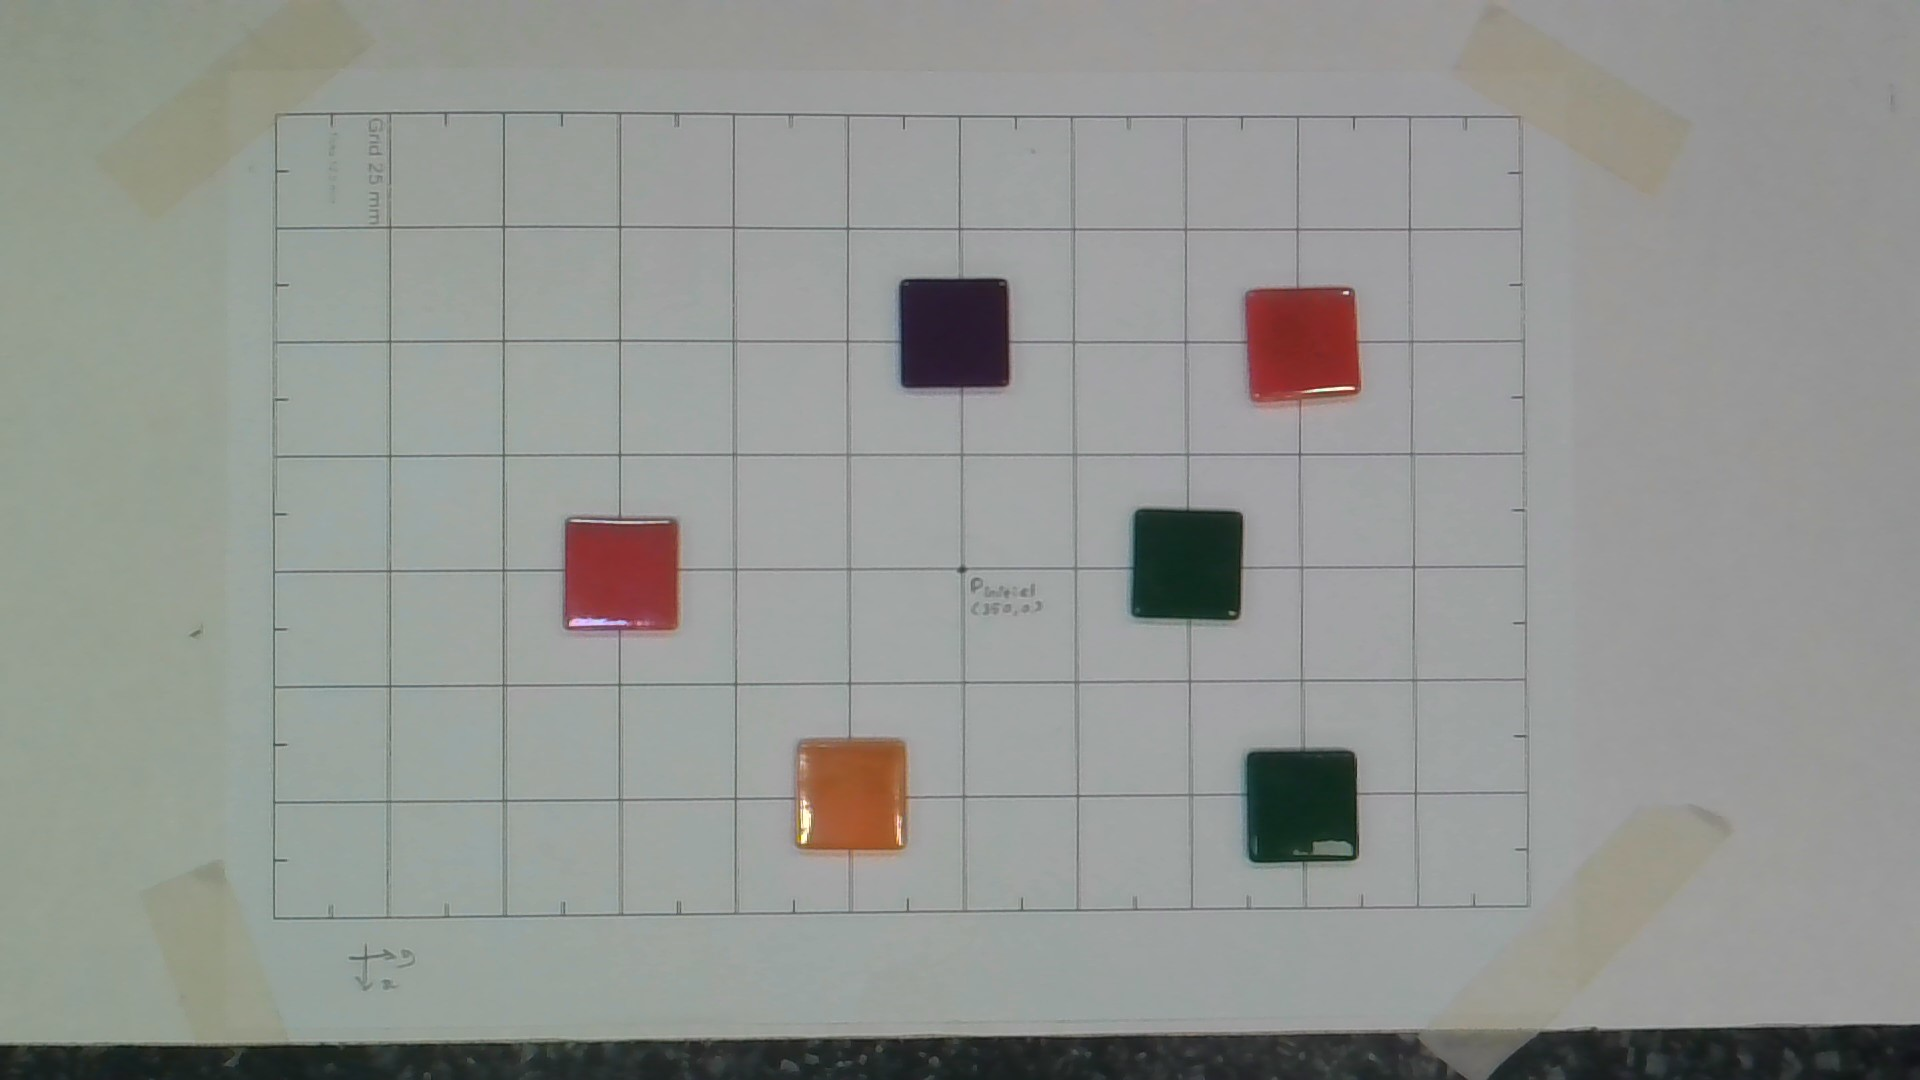
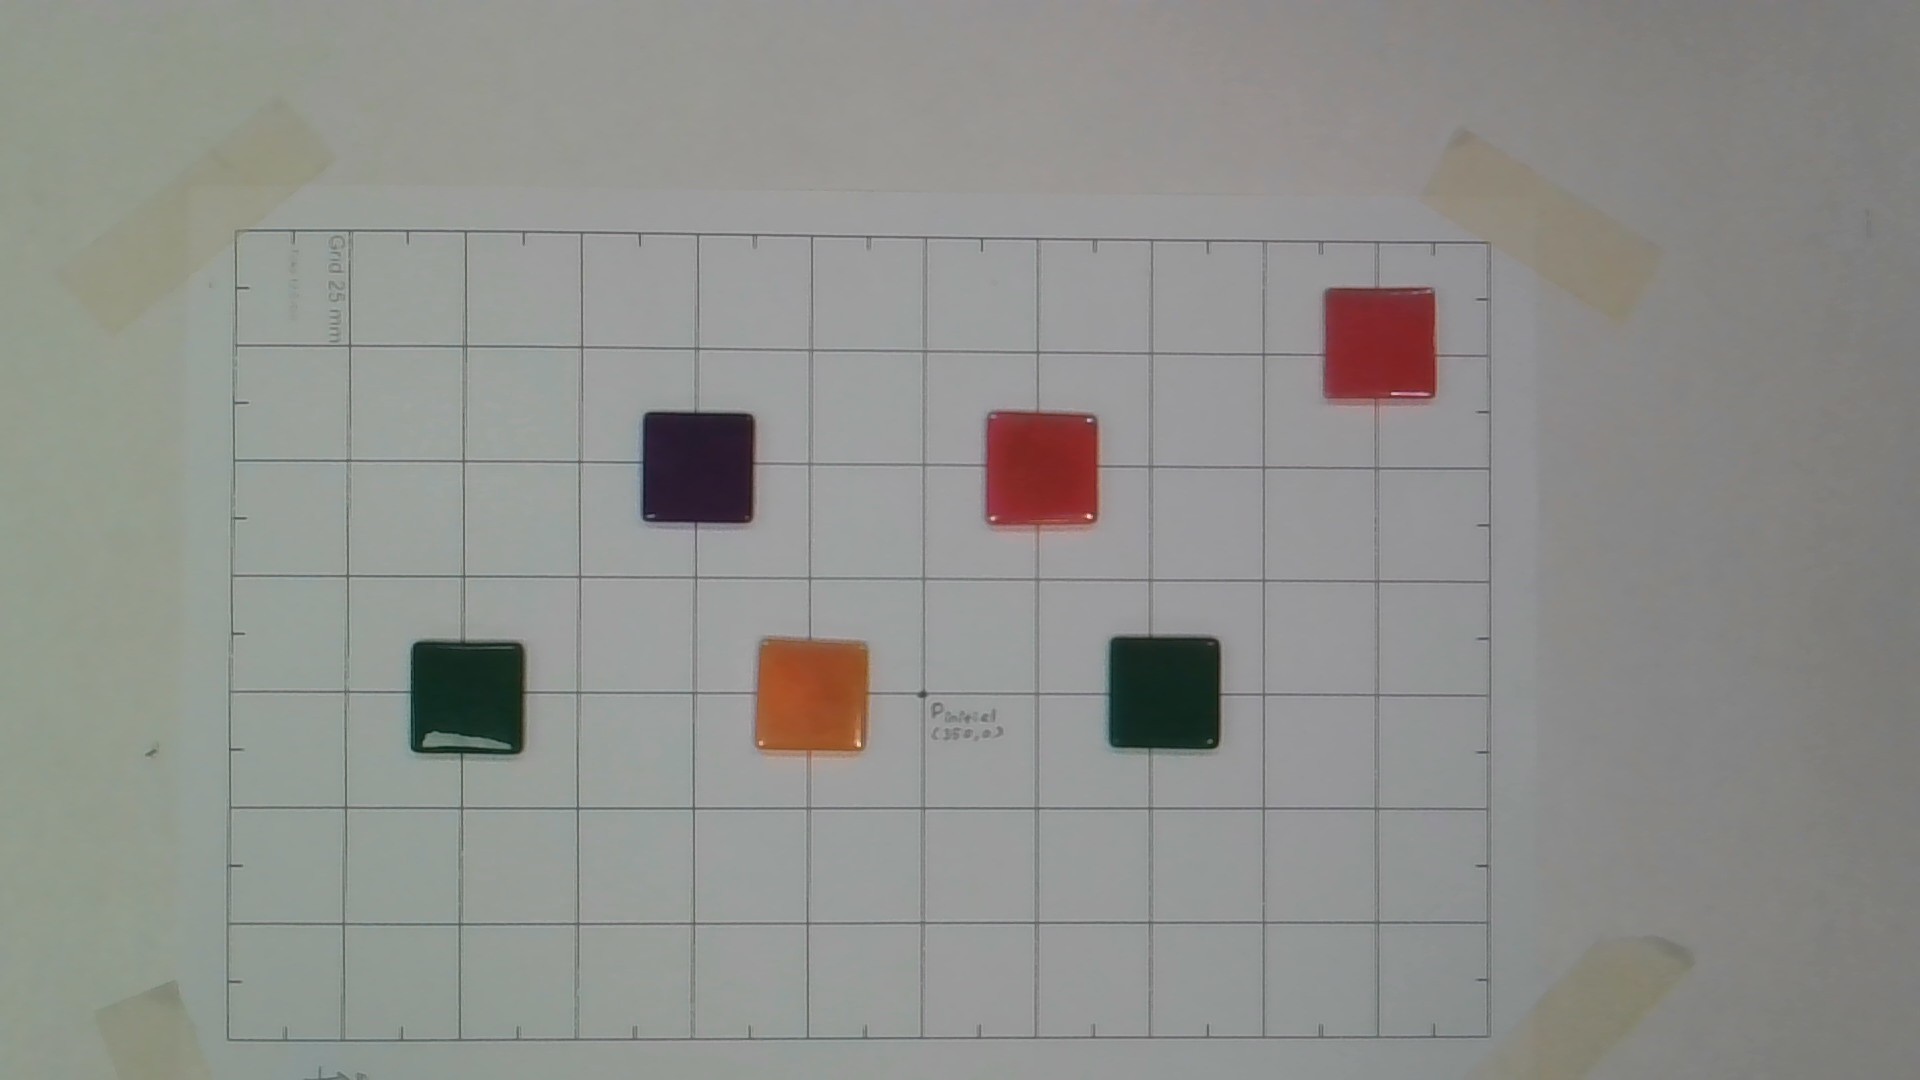
Add filters

diff --git a/robot/main.py b/robot/main.py
@@ -17,21 +17,21 @@ class MG400Controller:
     def __init__(self, ip="192.168.1.6"):
         self.ip = ip
         self.safe_z = -75.0  # Height for moving across the table (mm)
-        self.pick_z = 165.0  # Height to touch/grab the object (mm)
+        self.pick_z = -165.0  # Height to touch/grab the object (mm)
         self.place_z = -125.0  # Height to release in the box
         self.safe_r = 0
         # Box coordinates [X, Y, Z]
         self.drop_location = [275, -125, -75]
 
+        self.dashboard, self.move, self.feed = ConnectRobot(ip=ROBOT_IP, timeout_s=5.0)
+        # Start feedback monitoring thread
+        self.feed_thread = StartFeedbackThread(self.feed)
+        # Setup and enable robot
+        SetupRobot(self.dashboard, speed_ratio=50, acc_ratio=50)
+
         print(f"Connecting to Dobot MG400 at {self.ip}...")
 
-    def pick_and_place(self, target_x, target_y):
-
-        dashboard, move, feed = ConnectRobot(ip=ROBOT_IP, timeout_s=5.0)
-        # Start feedback monitoring thread
-        feed_thread = StartFeedbackThread(feed)
-        # Setup and enable robot
-        SetupRobot(dashboard, speed_ratio=50, acc_ratio=50)
+    def pick_and_place(self, target_x, target_y):        
 
         """Standard sequence: Move -> Descend -> Grab -> Lift -> Move -> Drop"""
         print(
@@ -39,12 +39,12 @@ class MG400Controller:
 
         # 1. Move to Safe Height above target
         print(f"Moving to Hover: {target_x, target_y, self.safe_z}")
-        MoveJ(move, [target_x, target_y, self.safe_z, self.safe_r])
+        MoveJ(self.move, [target_x, target_y, self.safe_z, self.safe_r])
         sleep(1)
 
         # 2. Descend to Pick Height
         print("Descending to Pick...")
-        MoveL(move, [target_x, target_y, self.pick_z, self.safe_r])
+        MoveL(self.move, [target_x, target_y, self.pick_z, self.safe_r])
         # arrived = WaitArrive(
         #    [target_x, target_y, self.pick_z], tolerance=1.0, timeout=30.0)
         arrived = True
@@ -52,7 +52,7 @@ class MG400Controller:
             # Turn on Digital Output 1
             # 3. Close Gripper / Turn on Suction
             print("\n--- Activating Digital Output 1 ---")
-            ControlDigitalOutput(dashboard, output_index=1, status=1)
+            ControlDigitalOutput(self.dashboard, output_index=1, status=1)
 
             # Wait for the command to execute
             sleep(1)
@@ -66,19 +66,19 @@ class MG400Controller:
 
         # 4. Lift back to Safe Height
         print("Lifting...")
-        MoveL(move, [target_x, target_y, self.safe_z, self.safe_r])
+        MoveL(self.move, [target_x, target_y, self.safe_z, self.safe_r])
         sleep(1)
 
         # 5. Move to Place Location
         px, py, pz = self.drop_location
         print(f"Moving to Box at ({px}, {py})")
-        MoveJ(move, [px, py, self.safe_z, self.safe_r])
+        MoveJ(self.move, [px, py, self.safe_z, self.safe_r])
         sleep(1)
 
         # 6. Descend to Place Height
         px, py, pz = self.drop_location
         print(f"Moving to Box at ({px}, {py})")
-        MoveL(move, [px, py, self.safe_z, self.safe_r])
+        MoveL(self.move, [px, py, self.safe_z, self.safe_r])
         sleep(1)
 
         # Wait for robot to reach the point
@@ -92,15 +92,19 @@ class MG400Controller:
         # 7. Release
         # Turn off Digital Output 1
         print("ACTION: Opening Gripper")
-        ControlDigitalOutput(dashboard, output_index=1, status=0)
+        ControlDigitalOutput(self.dashboard, output_index=1, status=0)
+        ControlDigitalOutput(self.dashboard, output_index=2, status=1)
+        sleep(1)
+        ControlDigitalOutput(self.dashboard, output_index=2, status=0)
         sleep(1)
         print("Item Placed.")
 
         # 8. Move to Place Location
         px, py, pz = self.drop_location
         print(f"Moving to transform position at ({px}, {py})")
-        MoveJ(move, [px, py, self.safe_z, self.safe_r])
+        MoveJ(self.move, [px, py, self.safe_z, self.safe_r])
         sleep(1)
 
-        # Disconnect
-        DisconnectRobot(dashboard, move, feed, feed_thread)
+def disconnect(self):
+    # Disconnect
+    DisconnectRobot(self.dashboard, self.move, self.feed, self.feed_thread)

diff --git a/main.py b/main.py
@@ -40,8 +40,8 @@ def run_main():
     # cam = Camera(1)
     # print("Taking photo...")
     # Call the method and store the returned image
-    # image = cam.get_frame()
-    image_path = os.path.join(OUTPUT_DIR, "camera_detection.jpg")
+    # cam.get_frame()
+    image_path = os.path.join(OUTPUT_DIR, "camera_detection.png")
     image = cv2.imread(image_path)
     if image is None:
         print(f"Error: {image_path} not found.")
@@ -87,7 +87,10 @@ def run_main():
     if args.mode == "execute" and targets_for_robot:
         bot = MG400Controller()
         for x, y in targets_for_robot:
+            if ((x > 425 or x < 250) and (y > 125 or y < -150)):
+                continue
             bot.pick_and_place(x, y)
+        bot.disconnect()
     elif args.mode == "execute":
         print("Execution skipped: No targets found.")
 

diff --git a/perception/detector.py b/perception/detector.py
@@ -23,7 +23,7 @@ class ObjectDetector:
             mask = cv2.inRange(hsv, np.array(lower), np.array(upper))
         else:
             gray = cv2.cvtColor(image, cv2.COLOR_BGR2GRAY)
-            _, mask = cv2.threshold(gray, 127, 255, cv2.THRESH_BINARY_INV)
+            _, mask = cv2.threshold(gray, 110, 255, cv2.THRESH_BINARY_INV)
 
         # 3. Morphology (Cleaning the mask)
         kernel = np.ones((5, 5), np.uint8)
@@ -36,7 +36,7 @@ class ObjectDetector:
         results = []
         for cnt in contours:
             area = cv2.contourArea(cnt)
-            if area < 500:
+            if area < 800:
                 continue  # Filter small noise
 
             # 5. Circularity (Lesson 5 Shape Descriptor)

diff --git a/utils/plot.py b/utils/plot.py
@@ -7,11 +7,11 @@ import os
 current_dir = os.path.dirname(__file__)
 # Go up one level to the project root, then into 'outputs'
 OUTPUT_FOLDER = os.path.join(current_dir, "..", "outputs")
-image_path = os.path.join(OUTPUT_FOLDER, "camera_detection.jpg")
+image_path = os.path.join(OUTPUT_FOLDER, "camera_detection.png")
 
 img = cv2.imread(image_path, cv2.IMREAD_GRAYSCALE)
 
-_, th = cv2.threshold(img, 127, 255, cv2.THRESH_BINARY_INV)
+_, th = cv2.threshold(img, 110, 255, cv2.THRESH_BINARY_INV)
 
 kernel = np.ones((5, 5), np.uint8)
 mask = cv2.morphologyEx(th, cv2.MORPH_OPEN, kernel)

diff --git a/utils/camera.py b/utils/camera.py
@@ -4,11 +4,10 @@ import cv2
 class Camera:
     def __init__(self, index=0):
         self.cam = cv2.VideoCapture(index)
-        # self.cam.set(cv2.CAP_PROP_FRAME_WIDTH, 1280)
-        # self.cam.set(cv2.CAP_PROP_FRAME_HEIGHT, 720)
+        self.cam.set(cv2.CAP_PROP_FRAME_WIDTH, 1920)
+        self.cam.set(cv2.CAP_PROP_FRAME_HEIGHT, 1080)
         # self.cam.set(cv2.CAP_PROP_BUFFERSIZE, 1)
         # self.cam.set(cv2.CAP_PROP_AUTOFOCUS, 0)
-        self.img_counter = 0
 
     def get_frame(self):
         ret, frame = self.cam.read()

diff --git a/utils/camTest.py b/utils/camTest.py
@@ -1,0 +1,5 @@
+from camera import Camera
+cam = Camera(1)
+print("Taking photo...")
+# Call the method and store the returned image
+cam.get_frame()
